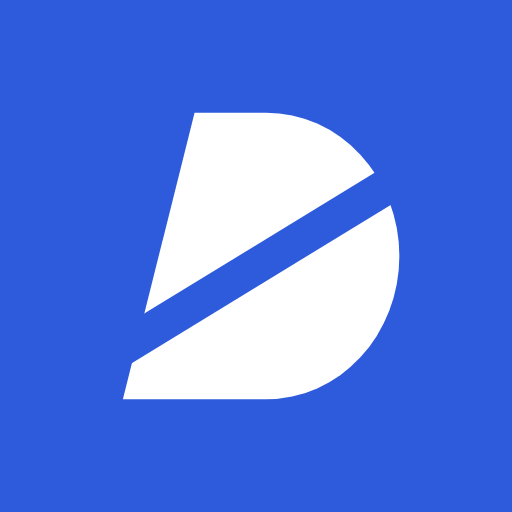
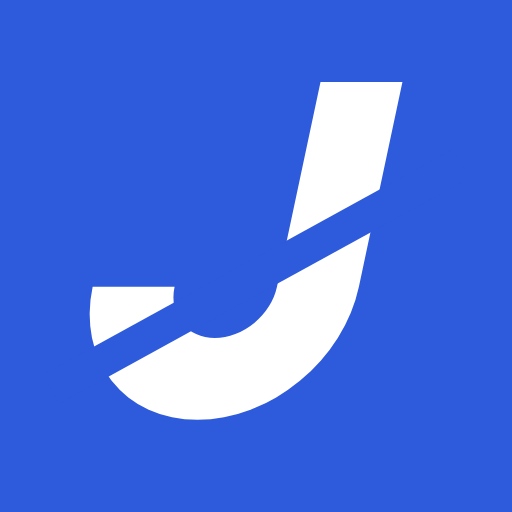
Nuova icona: J corsiva tagliata
Claude-Session: https://claude.ai/code/session_01Xurc8cpS8ivh8eQWhpen2f

diff --git a/app.js b/app.js
@@ -46,7 +46,7 @@ const I = {
   wallet: '<svg width="20" height="20" viewBox="0 0 24 24" fill="none" stroke="currentColor" stroke-width="2" stroke-linecap="round" stroke-linejoin="round" aria-hidden="true"><rect x="3" y="6" width="18" height="13" rx="3"/><path d="M3 10h18M15 15h3"/></svg>',
   mind: '<svg width="20" height="20" viewBox="0 0 24 24" fill="none" stroke="currentColor" stroke-width="2" stroke-linecap="round" stroke-linejoin="round" aria-hidden="true"><path d="M9 3a4 4 0 0 0-4 4 4 4 0 0 0-2 7 4 4 0 0 0 6 5V3zM15 3a4 4 0 0 1 4 4 4 4 0 0 1 2 7 4 4 0 0 1-6 5V3z"/></svg>',
   logout: '<svg width="20" height="20" viewBox="0 0 24 24" fill="none" stroke="currentColor" stroke-width="2" stroke-linecap="round" stroke-linejoin="round" aria-hidden="true"><path d="M15 4h3a2 2 0 0 1 2 2v12a2 2 0 0 1-2 2h-3M10 17l-5-5 5-5M5 12h11"/></svg>',
-  logo: '<svg width="44" height="44" viewBox="0 0 100 100" role="img" aria-label="Jarvis"><rect width="100" height="100" rx="23" fill="var(--logo-bg, #2E5BDB)"/><path d="M38 22 H52 a26 28 0 0 1 0 56 H24 Z" fill="#FFFFFF"/><path d="M14 74 L86 30" stroke="var(--logo-bg, #2E5BDB)" stroke-width="7"/></svg>'
+  logo: '<svg width="44" height="44" viewBox="0 0 100 100" role="img" aria-label="Jarvis"><rect width="100" height="100" rx="23" fill="var(--logo-bg, #2E5BDB)"/><g transform="skewX(-12) translate(10 0)"><path d="M56 16 H72 V56 A26 26 0 0 1 20 56 H36 A10 10 0 0 0 56 56 Z" fill="#FFFFFF"/></g><path d="M10 76 L90 32" stroke="var(--logo-bg, #2E5BDB)" stroke-width="6.5"/></svg>'
 };
 
 // ---------------------------------------------------------------- Date

diff --git a/CLAUDE.md b/CLAUDE.md
@@ -23,7 +23,7 @@ tranne prima di cancellare dati dal database (avvisa sempre prima).
 ## Stile
 - Palette "Grafite e blu", token CSS in `:root` e `:root[data-theme="dark"]`. Tema scuro automatico da tramonto ad alba (Roma), `applyTheme()`.
 - Layout Bento su telefono (barra in basso: Oggi · Settimana · Spese · Mente), su computer barra laterale + Calendario a pagina intera (≥1000px).
-- Icona: D corsiva bianca tagliata su blu (giorno), stessa D su grafite (sera).
+- Icona: J corsiva bianca tagliata (stile "J1") su blu di giorno, su grafite di sera.
 - Testi in italiano. Font Geist / Geist Mono.
 
 ## Come lavorare
